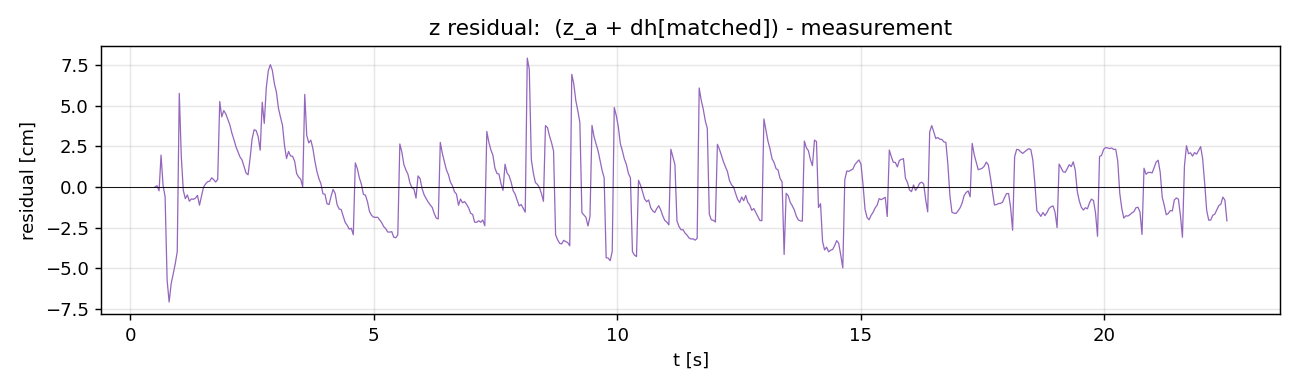
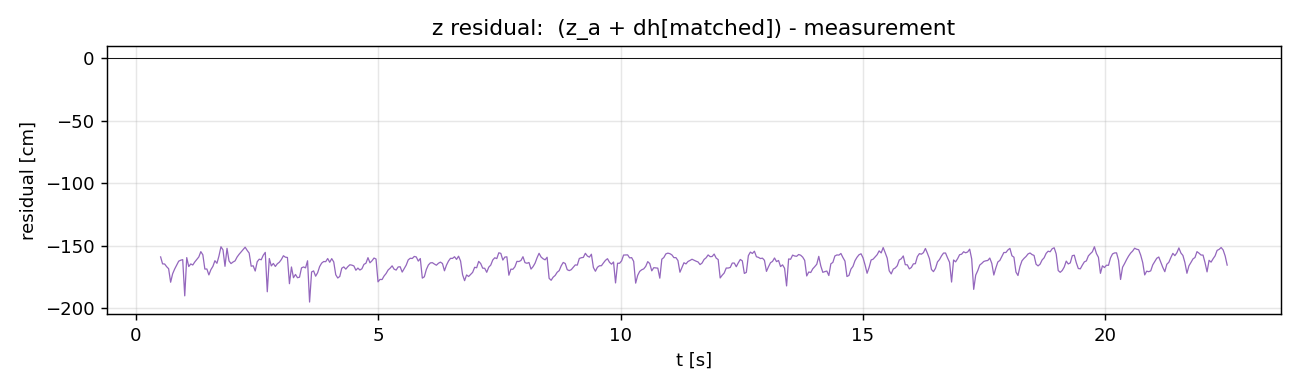
feat: 第三周作业（EKF + Tracker + 重投影 + 报告）

diff --git a/src/week3_main.cpp b/src/week3_main.cpp
@@ -9,8 +9,6 @@
 #include <string>        
 #include <cmath>     
 
-static bool g_dbgBox = false;      // 这一帧是否打印预测框
-
 
 constexpr int LINE_THICK = 2;
 constexpr int BOX_THICK = 2;      // 重投影框的线宽
@@ -78,33 +76,6 @@ static void drawHud(cv::Mat& img, const Ekf& ekf, int j)
 
 
 
-static void drawArmorCenters(cv::Mat& img, const Ekf& ekf,
-                             const ImuBuffer& imu, double t, int jMatched)
-{
-    cv::Mat R_cw = (imu.rotationAt(t, 0) * ImuBuffer::camToBody(0)).t();
-    const cv::Mat s = ekf.state();
-    for (int j = 0; j < PLATE_NUM; ++j)
-    {
-        cv::Mat pw = ekf.h(j, s);
-        cv::Mat pc = R_cw * pw;
-        const double Xc = pc.at<double>(0);
-        const double Yc = pc.at<double>(1);
-        const double Zc = pc.at<double>(2);
-
-
-        if (Zc <= 0.1) continue;
-
-        const int u = cvRound(VID_FX*Xc/Zc + VID_CX);
-        const int v = cvRound(VID_FY*Yc/Zc + VID_CY);
-
-        const cv::Scalar color = (j == jMatched)
-                                 ? cv::Scalar(0, 255, 0)     // 当前匹配：绿
-                                 : cv::Scalar(0, 165, 255);  // 其余：橙
-
-        if (u < 0 || u >= img.cols || v < 0 || v >= img.rows) continue; //投影点必须在图像内
-        cv::circle(img, cv::Point(u,v), 4, color, -1);
-    }
-}
 
 //算四个角点
 static void plateCorners(const Ekf& ekf,
@@ -220,18 +191,6 @@ static void drawArmorBoxes(cv::Mat& img,
                                                  : cv::Scalar(90, 90, 90);
         const int thick = (j == jMatched) ? (BOX_THICK + 1) : BOX_THICK;
 
-        if (j == jMatched && g_dbgBox)
-        {
-            printf("       [预测] 宽=%.0f 高=%.0f  中心=(%.0f,%.0f)\n",
-                   cv::norm(cv::Point2f(pts[1] - pts[0])),
-                   cv::norm(cv::Point2f(pts[2] - pts[1])),
-                   (pts[0].x + pts[2].x) * 0.5f,
-                   (pts[0].y + pts[2].y) * 0.5f);
-        }
-
-        // 板中心在相机系下的方向
-        //printf("       视线=(%.2f,%.2f,%.2f)  Zc=%.2f\n", Xc, Yc, Zc);
-
         cv::polylines(img, pts, true, color, thick, cv::LINE_AA);
     }
 }
@@ -278,6 +237,12 @@ int main()
     //打开meas.csv
     FILE* fcsv = std::fopen("meas.csv", "w");
     if (fcsv) std::fprintf(fcsv, "frame,x,y,z,ok\n");
+
+    // 状态导出（供 plot_states.py 使用，列格式与 ekf_test 一致）
+    FILE* fstate = std::fopen("state.csv", "w");
+    if (fstate)
+        std::fprintf(fstate,
+            "frame,t,cx,vx,cy,vy,za,vz,theta,omega,r,matched,P_cx,P_cy,P_theta,raw_z\n");
 
     //5.对每一帧识别解算并预测画框
     while (cap.read(frame))
@@ -359,14 +324,26 @@ int main()
         }
         const int j = tracker.update(ms, t); //喂给Tracker
 
-        g_dbgBox = (idx % 25 == 0);
-        if (g_dbgBox && pr.ok && j >= 0)
+        if (fstate)
         {
-            const auto& K4 = dets[best].kpt;
-            printf("帧%4d [检测] 宽=%.0f 高=%.0f  中心=(%.0f,%.0f)  j=%d\n",
-                   idx, cv::norm(K4[1] - K4[0]), cv::norm(K4[2] - K4[1]),
-                   (K4[0].x + K4[2].x) * 0.5f, (K4[0].y + K4[2].y) * 0.5f, j);
+            const cv::Mat sx = tracker.ekf().state();
+            const cv::Mat Px = tracker.ekf().cov();
+            std::fprintf(fstate,
+                "%d,%.6f,%.6f,%.6f,%.6f,%.6f,%.6f,%.6f,%.6f,%.6f,%.6f,"
+                "%d,%.6e,%.6e,%.6e,%.6f\n",
+                idx, t,
+                sx.at<double>(CX), sx.at<double>(VX),
+                sx.at<double>(CY), sx.at<double>(VY),
+                sx.at<double>(ZA), sx.at<double>(VZ),
+                sx.at<double>(THETA), sx.at<double>(OMEGA),
+                sx.at<double>(R_ARM),
+                j,
+                Px.at<double>(CX, CX),
+                Px.at<double>(CY, CY),
+                Px.at<double>(THETA, THETA),
+                pr.ok ? pr.tvec.at<double>(2) : 0.0);
         }
+
 
         if (fcsv)
         {
@@ -395,16 +372,6 @@ int main()
         }
 
 
-        //临时打印
-        if (idx < 3 && pr.ok)
-        {
-        const cv::Mat pw = imu.camToWorld(pr.tvec, t, 0, 0);
-        printf("  帧%d  tvec=(%.3f,%.3f,%.3f)  world=(%.3f,%.3f,%.3f)\n",
-               idx,
-               pr.tvec.at<double>(0), pr.tvec.at<double>(1), pr.tvec.at<double>(2),
-               pw.at<double>(0),     pw.at<double>(1),     pw.at<double>(2));
-        }
-
         //5.6 打印
         if (idx % 50 == 0)
         {
@@ -421,7 +388,6 @@ int main()
         if (tracker.inited())
         {
             drawArmorBoxes(frame, tracker.ekf(), imu, t, j, pr.ok ? pr.rvec : cv::Mat());
-            //drawArmorCenters(frame, tracker.ekf(), imu, t, j);
         }
 
         writer.write(frame);
@@ -430,6 +396,8 @@ int main()
 
 
     if (fcsv) std::fclose(fcsv);
+
+    if (fstate) std::fclose(fstate);
 
     
     cap.release();

diff --git a/plot_states.py b/plot_states.py
@@ -69,8 +69,8 @@ axes[2][2].set_ylim(0.24, 0.26)
 
 # ---- armor height 子图：模型预测 vs 原始观测 ----------
 axes[0][2].plot(t, pred_z, lw=0.9, alpha=0.85, color="tab:red", label="model: z_a + dh")
-axes[0][2].plot(t, rz,     lw=0.5, alpha=0.40, color="gray",   label="measurement")
-axes[0][2].legend(fontsize=7, loc="lower right")
+#axes[0][2].plot(t, rz,     lw=0.5, alpha=0.40, color="gray",   label="measurement")
+#axes[0][2].legend(fontsize=7, loc="lower right")
 
 # ---- z 通道残差统计 ----------
 res = pred_z - rz
@@ -78,17 +78,17 @@ rms = np.sqrt(np.mean(res ** 2))
 print(f"z channel: RMS residual = {rms*100:.2f} cm, max = {np.max(np.abs(res))*100:.2f} cm")
 
 # ---- 单独的残差图 ----------
-fig2, ax2 = plt.subplots(figsize=(10, 3))
-ax2.plot(t, res * 100.0, lw=0.7, color="tab:purple")
-ax2.axhline(0.0, color="k", lw=0.5)
-ax2.set_xlabel("t [s]")
-ax2.set_ylabel("residual [cm]")
-ax2.set_title("z residual:  (z_a + dh[matched]) - measurement")
-ax2.grid(alpha=0.3)
+#fig2, ax2 = plt.subplots(figsize=(10, 3))
+#ax2.plot(t, res * 100.0, lw=0.7, color="tab:purple")
+#ax2.axhline(0.0, color="k", lw=0.5)
+#ax2.set_xlabel("t [s]")
+#ax2.set_ylabel("residual [cm]")
+#ax2.set_title("z residual:  (z_a + dh[matched]) - measurement")
+#ax2.grid(alpha=0.3)
 
-fig2.tight_layout()
-fig2.savefig("z_residual.png", dpi=130)
-print("saved z_residual.png")
+#fig2.tight_layout()
+#fig2.savefig("z_residual.png", dpi=130)
+#print("saved z_residual.png")
 
 fig.tight_layout()
 fig.savefig("states.png", dpi=130)
